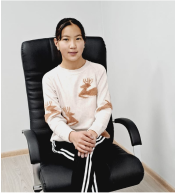
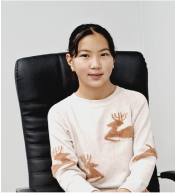
mobile img fix

diff --git a/css/adaptive-mobile.css b/css/adaptive-mobile.css
@@ -207,11 +207,11 @@
   }
   .namePhotoConstell img {
     height: 100%;
-    width: 55%;
+    width: 48%;
   }
   .nameConstell_Container img {
-    width: 80%;
-    max-height: 60%;
+    width: 58%;
+    max-height: 15vh;
   }
   .nameConstell_Container {
     display: flex;

diff --git a/css/swiper/swiper-bundle.min.css b/css/swiper/swiper-bundle.min.css
@@ -72,7 +72,7 @@ html {
 .swiper-slide {
     flex-shrink: 0;
     width: 25vw;
-    height: 90%;
+    height: 100%;
     position: relative;
     transition-property: transform;
 
